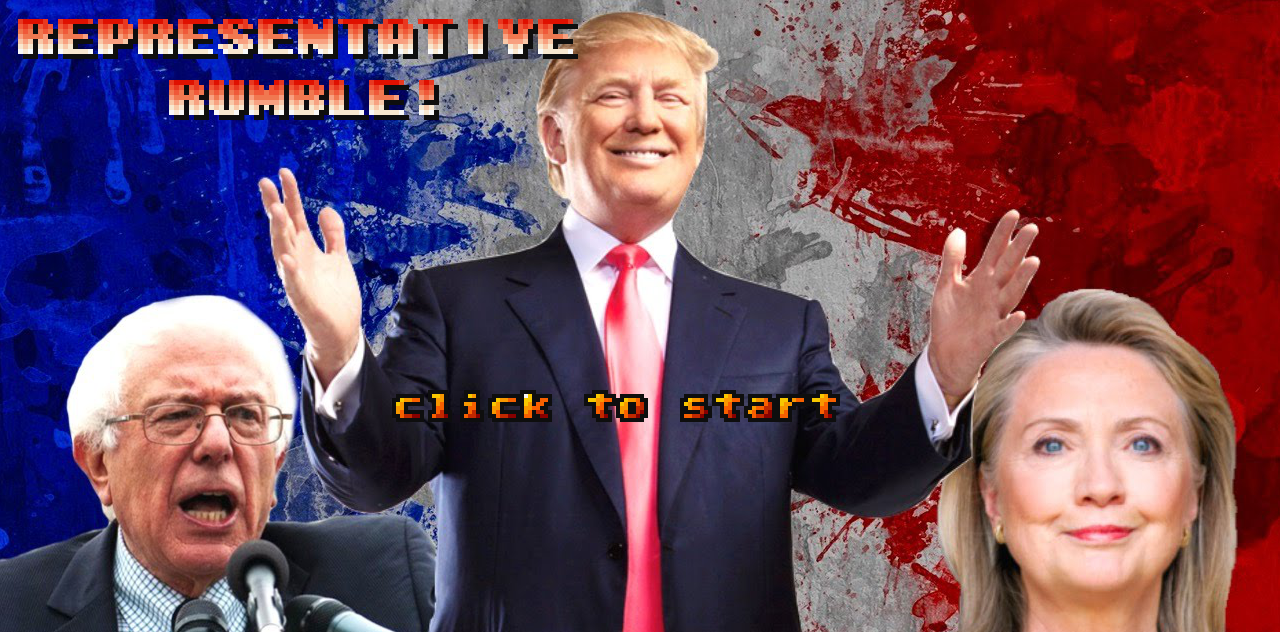
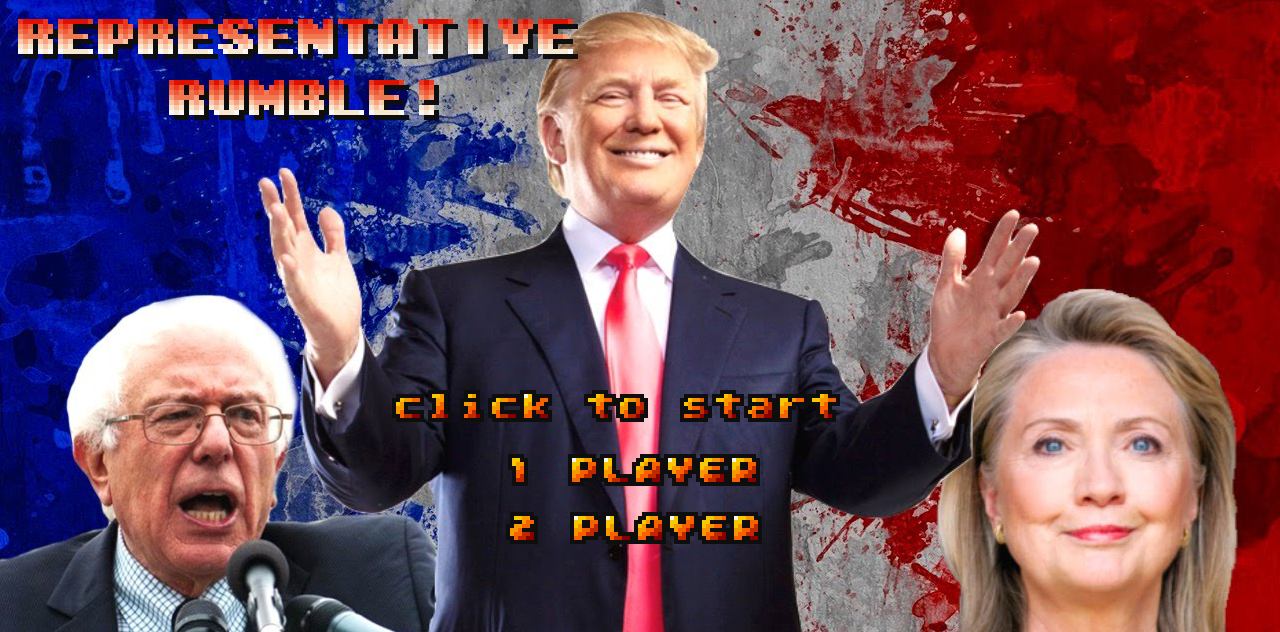
working on getting 1p vs 2p working

Changed region(s): [[0.375, 0.7215, 0.5938, 0.7816], [0.375, 0.8117, 0.5938, 0.8718]]

diff --git a/gameengine.js b/gameengine.js
@@ -70,7 +70,24 @@ GameEngine.prototype.start = function () {
 GameEngine.prototype.startInput = function () {
     console.log('Starting input');
     var that = this;
+    var getXandY = function (e) {
+        var x = e.clientX - that.ctx.canvas.getBoundingClientRect().left;
+        var y = e.clientY - that.ctx.canvas.getBoundingClientRect().top;
 
+        if (x < 1024) {
+            x = Math.floor(x / 32);
+            y = Math.floor(y / 32);
+        }
+
+        return { x: x, y: y };
+    }
+
+    this.ctx.canvas.addEventListener("click", function (e) {
+        
+        that.click = getXandY(e);
+        console.log(e);
+        console.log("Left Click Event - X,Y " + e.clientX + ", " + e.clientY);
+    }, false);
     this.ctx.canvas.addEventListener("keydown", function (e) {
         var h = that.o;
         var keyStrokes = [that.a, that.s, that.d, that.w, that.i, that.o, that.p,that.m, that.lKey];
@@ -269,5 +286,6 @@ GameEngine.prototype.loop = function () {
     this.backS = null;
     this.rightShift = null;
     this.leftShift = null;
+    this.click = null;
 
 }

diff --git a/main.js b/main.js
@@ -189,7 +189,23 @@ ASSET_MANAGER.downloadAll(function () {
         this.play();
     }, false);
 
+
+    var firstClick = true;
     canvas.addEventListener('focus', function (event) {
+
+        if(firstClick){
+            var onePlayerBox = {x: 501, y: 448, width: 263, height: 42};
+            var twoPlayerBox = {x: 504, y: 512, width: 260, height: 36};
+
+            var onePlayer = true;
+            if(gameEngine.click.x > onePlayerBox.x && gameEngine.click.y > onePlayerBox.y
+                && gameEngine.click.x < onePlayerBox.x+ onePlayerBox.width && gameEngine.click.y < onePlayerBox.y + onePlayerBox.height){
+                console.log("ONE!")
+            }else if(gameEngine.click.x > twoPlayerBox.x && gameEngine.clicky > twoPlayerBox.y
+                && gameEngine.click.x < twoPlayerBox.x + twoPlayerBox.width && gameEngine.click.y < twoPlayerBox.y + twoPlayerBox.height){
+                console.log("TWO!")
+            }
+        }
         var entities = gameEngine.entities;
         for(var i =0; i<entities.length; i++){
             if(entities[i] === title){
